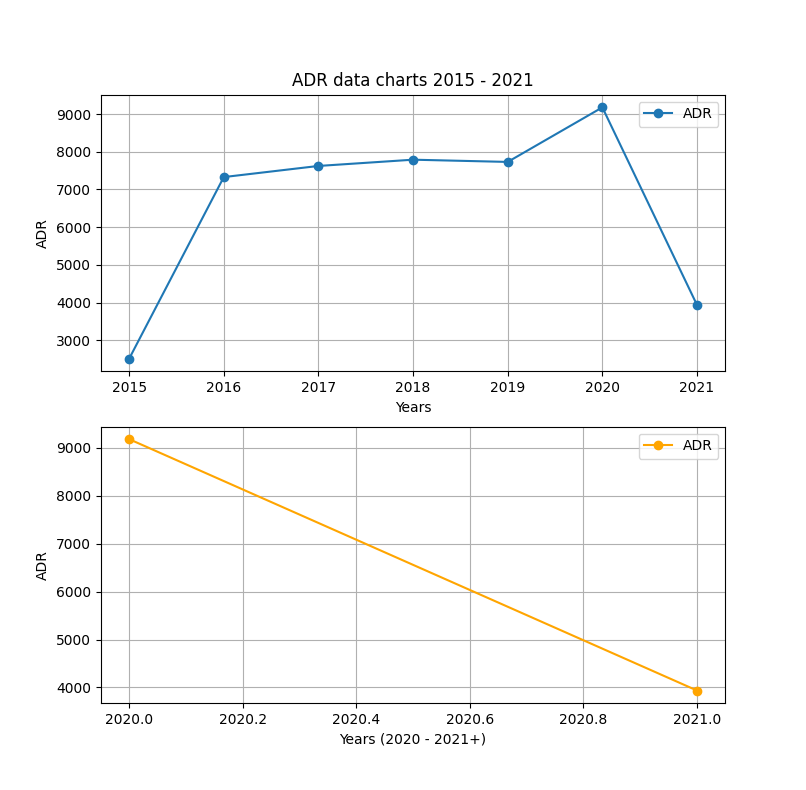
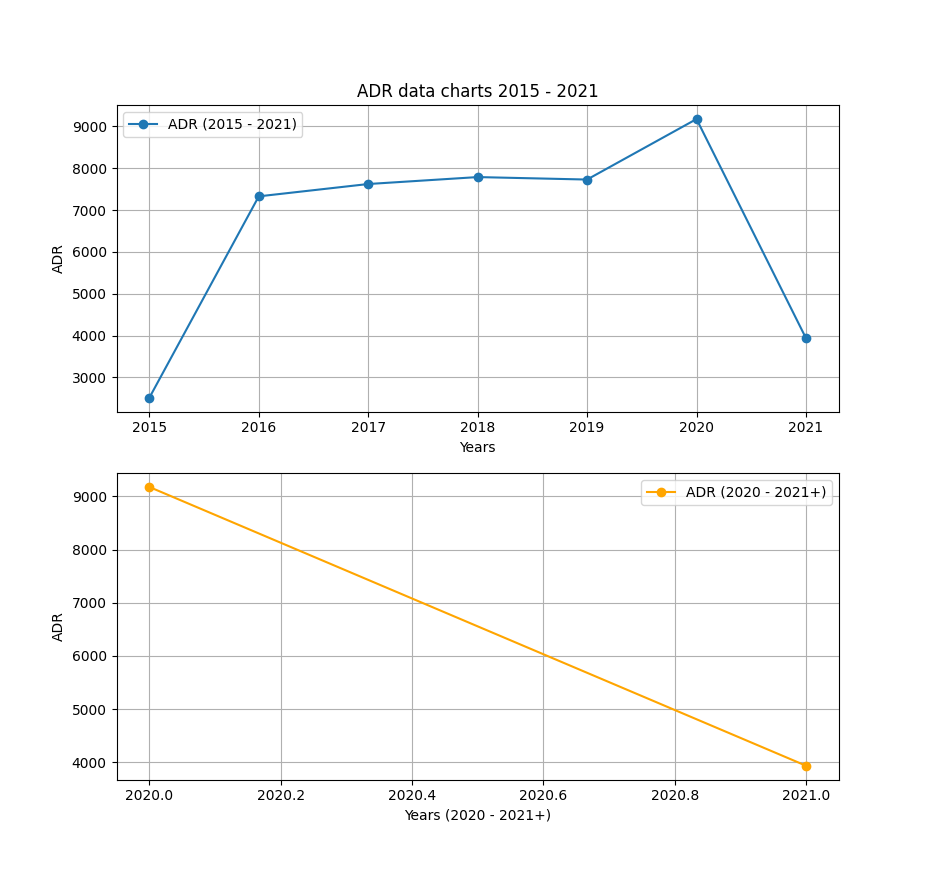
update main class and data screenshot

diff --git a/src/main.py b/src/main.py
@@ -100,7 +100,7 @@ if (__name__ == '__main__'):
     axis0.set_xlabel('Years')         # OX label: years from 2015
     axis0.set_ylabel('ADR')           # OY label: ADR (short: average death rate)
 
-    axis0.plot(ls_years, ls_main_data, label='ADR', marker='o')      # OX data, OY data
+    axis0.plot(ls_years, ls_main_data, label='ADR (2015 - 2021)', marker='o')      # OX data, OY data
     axis0.legend()
     axis0.grid(True)
 
@@ -108,7 +108,7 @@ if (__name__ == '__main__'):
     axis1.set_xlabel('Years (2020 - 2021+)')         # OX label: years from 2020
     axis1.set_ylabel('ADR')           # OY label: ADR (short: average death rate)
 
-    axis1.plot(ls_second_years, ls_main_data[5:], label='ADR', marker='o', color='orange')
+    axis1.plot(ls_second_years, ls_main_data[5:], label='ADR (2020 - 2021+)', marker='o', color='orange')
     axis1.legend()
     axis1.grid(True)
 
